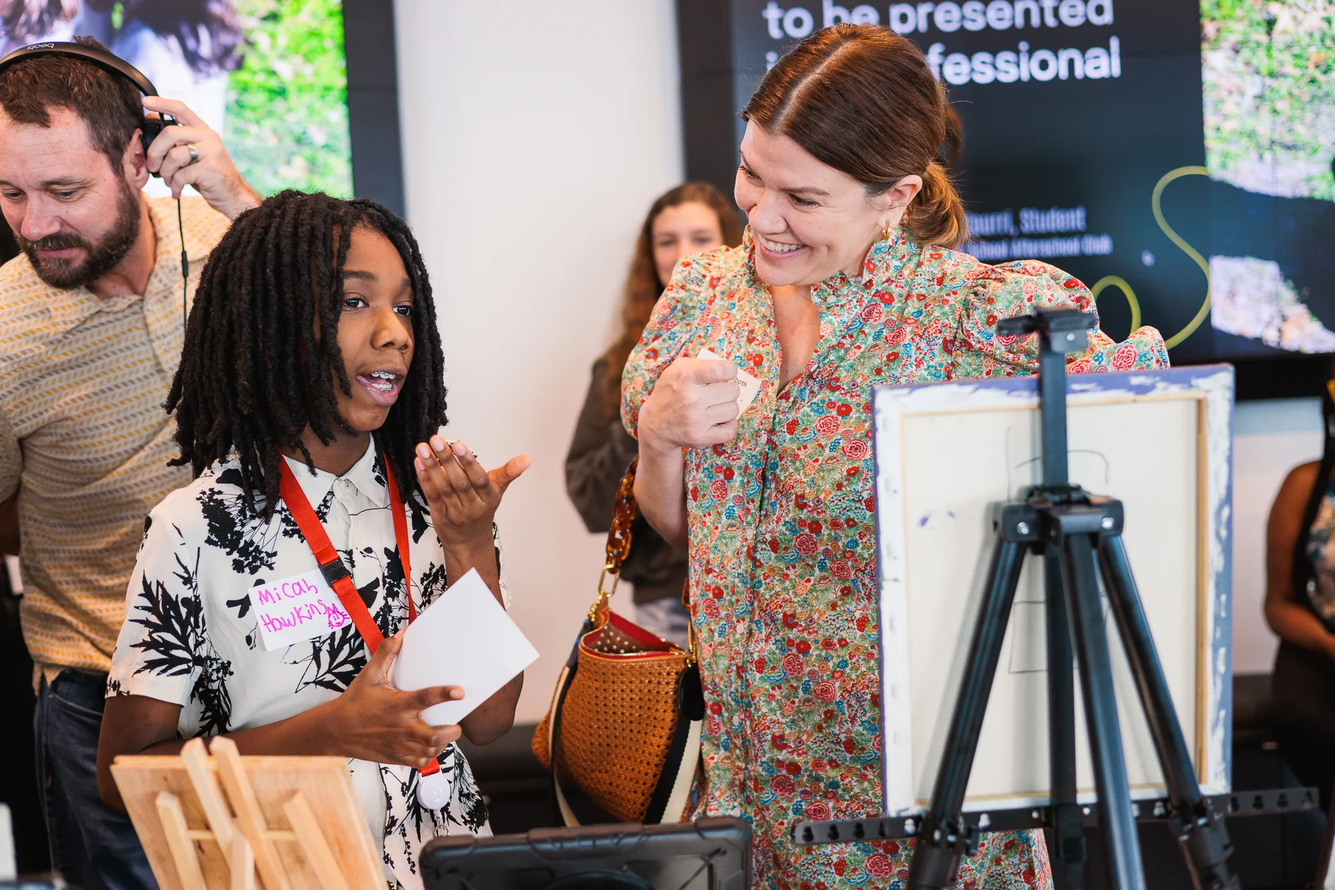
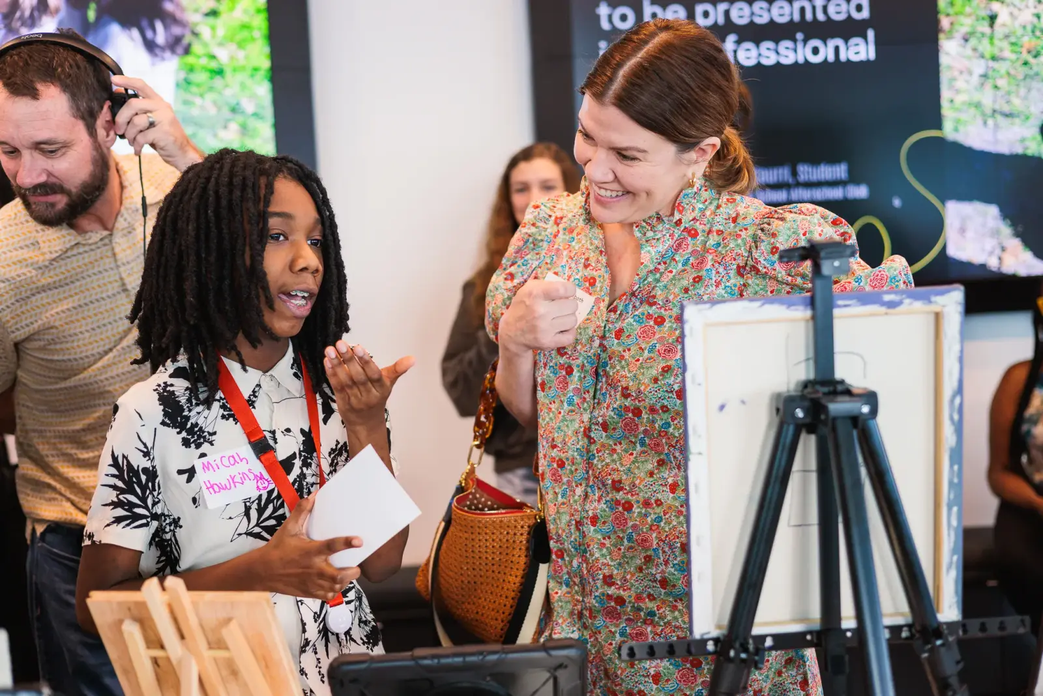
perf: optimize Lighthouse score — eliminate Framer Motion, compress images, defer GA4
- Hero image (_a4a2514.webp): 628KB → 268KB (resized 1600px, quality 75)
- _a4a1906.webp: 410KB → 174KB (resized 1600px, quality 75)
- img_5137_1.webp: 225KB → 45KB (resized 1600px, quality 75)
- Replace Framer Motion with CSS animations + IntersectionObserver in:
  - AnimatedSection (CSS transitions, no JS animation library)
  - HeroSection (CSS animate-fade-in-up keyframes)
  - EcosystemCircle (CSS transitions for mobile stacked view)
- Framer Motion no longer imported anywhere — full tree-shake elimination
- Add fetchPriority='high' to hero background image
- Change GA4 scripts from afterInteractive to lazyOnload
- Add fadeInUp keyframe animation to Tailwind config

diff --git a/src/components/EcosystemCircle.tsx b/src/components/EcosystemCircle.tsx
@@ -1,6 +1,6 @@
 'use client'
 
-import { motion } from 'framer-motion'
+import { useEffect, useRef, useState } from 'react'
 import { FontAwesomeIcon } from '@fortawesome/react-fontawesome'
 import { faBookOpen, faWrench, faDoorOpen, faCrown } from '@fortawesome/free-solid-svg-icons'
 import type { IconDefinition } from '@fortawesome/fontawesome-svg-core'
@@ -16,12 +16,24 @@ export default function EcosystemCircle() {
   const circleSize = 640
   const radius = circleSize / 2 - 70
   const center = circleSize / 2
+  const mobileRef = useRef<HTMLDivElement>(null)
+  const [mobileVisible, setMobileVisible] = useState(false)
+
+  useEffect(() => {
+    const el = mobileRef.current
+    if (!el) return
+    const observer = new IntersectionObserver(
+      ([entry]) => { if (entry.isIntersecting) { setMobileVisible(true); observer.unobserve(el) } },
+      { rootMargin: '-50px' }
+    )
+    observer.observe(el)
+    return () => observer.disconnect()
+  }, [])
 
   return (
     <div className="flex flex-col items-center">
       {/* Desktop: circular layout */}
       <div className="hidden md:block relative" style={{ width: circleSize, height: circleSize }}>
-        {/* Outer ring arcs */}
         <svg className="absolute inset-0" viewBox={`0 0 ${circleSize} ${circleSize}`} fill="none">
           {stages.map((stage, i) => {
             const gap = 4 * (Math.PI / 180)
@@ -41,14 +53,11 @@ export default function EcosystemCircle() {
               />
             )
           })}
-
-          {/* Directional arrows between stages */}
           {stages.map((_, i) => {
             const midAngle = ((i + 1) * 90 - 90) * (Math.PI / 180)
             const arrowR = radius + 24
             const ax = center + arrowR * Math.cos(midAngle)
             const ay = center + arrowR * Math.sin(midAngle)
-
             const tangentAngle = midAngle + Math.PI / 2
             const size = 10
             const tipX = ax + size * Math.cos(tangentAngle)
@@ -57,7 +66,6 @@ export default function EcosystemCircle() {
             const baseL_Y = ay - size * 0.6 * Math.sin(tangentAngle) + size * 0.5 * Math.sin(tangentAngle + Math.PI / 2)
             const baseR_X = ax - size * 0.6 * Math.cos(tangentAngle) - size * 0.5 * Math.cos(tangentAngle + Math.PI / 2)
             const baseR_Y = ay - size * 0.6 * Math.sin(tangentAngle) - size * 0.5 * Math.sin(tangentAngle + Math.PI / 2)
-
             return (
               <polygon
                 key={`arrow-${i}`}
@@ -68,8 +76,6 @@ export default function EcosystemCircle() {
             )
           })}
         </svg>
-
-        {/* Stage icons + labels positioned in quadrants */}
         {stages.map((stage, i) => {
           const angle = (i * 90) * (Math.PI / 180)
           const labelR = radius * 0.55
@@ -79,11 +85,7 @@ export default function EcosystemCircle() {
             <div
               key={stage.label}
               className="absolute text-center z-10"
-              style={{
-                left: x - 65,
-                top: y - 40,
-                width: 130,
-              }}
+              style={{ left: x - 65, top: y - 40, width: 130 }}
             >
               <div
                 className="w-20 h-20 rounded-full mx-auto flex items-center justify-center text-white mb-2 shadow-md"
@@ -95,8 +97,6 @@ export default function EcosystemCircle() {
             </div>
           )
         })}
-
-        {/* Center text */}
         <div className="absolute inset-0 flex items-center justify-center pointer-events-none">
           <div className="text-center">
             <span className="text-sm font-semibold text-gray-400 uppercase tracking-widest">E4</span>
@@ -106,13 +106,15 @@ export default function EcosystemCircle() {
       </div>
 
       {/* Mobile: stacked layout */}
-      <div className="md:hidden space-y-3 w-full max-w-md">
+      <div ref={mobileRef} className="md:hidden space-y-3 w-full max-w-md">
         {stages.map((stage, i) => (
-          <motion.div
+          <div
             key={stage.label}
-            initial={{ opacity: 0, x: -20 }}
-            animate={{ opacity: 1, x: 0 }}
-            transition={{ delay: i * 0.1 }}
+            style={{
+              opacity: mobileVisible ? 1 : 0,
+              transform: mobileVisible ? 'none' : 'translateX(-20px)',
+              transition: `opacity 0.4s ease-out ${i * 0.1}s, transform 0.4s ease-out ${i * 0.1}s`,
+            }}
           >
             <div className="flex items-center gap-4 p-4 rounded-xl border border-gray-200">
               <div
@@ -129,7 +131,7 @@ export default function EcosystemCircle() {
                 {i < stages.length - 1 ? '>' : ''}
               </span>
             </div>
-          </motion.div>
+          </div>
         ))}
       </div>
     </div>

diff --git a/src/components/HeroSection.tsx b/src/components/HeroSection.tsx
@@ -1,6 +1,5 @@
 'use client'
 
-import { motion } from 'framer-motion'
 import Link from 'next/link'
 import Image from 'next/image'
 import { ReactNode } from 'react'
@@ -38,6 +37,7 @@ export default function HeroSection({
             className="object-cover"
             sizes="100vw"
             priority
+            fetchPriority="high"
           />
           <div className="absolute inset-0 bg-gradient-to-br from-black/70 via-black/50 to-black/70" />
         </div>
@@ -51,28 +51,21 @@ export default function HeroSection({
       </div>
 
       <div className="relative z-10 max-w-7xl mx-auto px-6 md:px-12 lg:px-20 py-32">
-        <motion.h1
-          initial={{ opacity: 0, y: 30 }}
-          animate={{ opacity: 1, y: 0 }}
-          transition={{ duration: 0.7 }}
-          className="text-4xl md:text-5xl lg:text-6xl font-display font-bold text-white leading-tight max-w-4xl"
+        <h1
+          className="text-4xl md:text-5xl lg:text-6xl font-display font-bold text-white leading-tight max-w-4xl animate-fade-in-up"
         >
           {headline}
-        </motion.h1>
-        <motion.p
-          initial={{ opacity: 0, y: 20 }}
-          animate={{ opacity: 1, y: 0 }}
-          transition={{ duration: 0.7, delay: 0.2 }}
-          className="mt-6 text-lg md:text-xl text-white/90 max-w-3xl leading-relaxed"
+        </h1>
+        <p
+          className="mt-6 text-lg md:text-xl text-white/90 max-w-3xl leading-relaxed animate-fade-in-up"
+          style={{ animationDelay: '0.2s' }}
         >
           {subheadline}
-        </motion.p>
+        </p>
         {(primaryCTA || secondaryCTA) && (
-          <motion.div
-            initial={{ opacity: 0, y: 20 }}
-            animate={{ opacity: 1, y: 0 }}
-            transition={{ duration: 0.7, delay: 0.4 }}
-            className="mt-10 flex flex-wrap gap-4"
+          <div
+            className="mt-10 flex flex-wrap gap-4 animate-fade-in-up"
+            style={{ animationDelay: '0.4s' }}
           >
             {primaryCTA && (
               <Link href={primaryCTA.href} className="btn-gold">
@@ -84,16 +77,15 @@ export default function HeroSection({
                 {secondaryCTA.text}
               </Link>
             )}
-          </motion.div>
+          </div>
         )}
         {children && (
-          <motion.div
-            initial={{ opacity: 0, y: 20 }}
-            animate={{ opacity: 1, y: 0 }}
-            transition={{ duration: 0.7, delay: 0.4 }}
+          <div
+            className="animate-fade-in-up"
+            style={{ animationDelay: '0.4s' }}
           >
             {children}
-          </motion.div>
+          </div>
         )}
       </div>
     </section>

diff --git a/src/components/AnimatedSection.tsx b/src/components/AnimatedSection.tsx
@@ -1,7 +1,6 @@
 'use client'
 
-import { motion } from 'framer-motion'
-import { ReactNode } from 'react'
+import { useEffect, useRef, useState, ReactNode } from 'react'
 
 interface Props {
   children: ReactNode
@@ -11,29 +10,44 @@ interface Props {
 }
 
 export default function AnimatedSection({ children, className = '', delay = 0, direction = 'up' }: Props) {
-  const variants = {
-    hidden: {
-      opacity: 0,
-      y: direction === 'up' ? 40 : 0,
-      x: direction === 'left' ? -40 : direction === 'right' ? 40 : 0,
-    },
-    visible: {
-      opacity: 1,
-      y: 0,
-      x: 0,
-      transition: { duration: 0.6, delay, ease: 'easeOut' },
-    },
-  }
+  const ref = useRef<HTMLDivElement>(null)
+  const [isVisible, setIsVisible] = useState(false)
+
+  useEffect(() => {
+    const el = ref.current
+    if (!el) return
+
+    const observer = new IntersectionObserver(
+      ([entry]) => {
+        if (entry.isIntersecting) {
+          setIsVisible(true)
+          observer.unobserve(el)
+        }
+      },
+      { rootMargin: '-50px' }
+    )
+
+    observer.observe(el)
+    return () => observer.disconnect()
+  }, [])
+
+  const initialTransform =
+    direction === 'up' ? 'translateY(40px)' :
+    direction === 'left' ? 'translateX(-40px)' :
+    direction === 'right' ? 'translateX(40px)' :
+    'none'
 
   return (
-    <motion.div
-      initial="hidden"
-      whileInView="visible"
-      viewport={{ once: true, margin: '-50px' }}
-      variants={variants}
+    <div
+      ref={ref}
       className={className}
+      style={{
+        opacity: isVisible ? 1 : 0,
+        transform: isVisible ? 'none' : initialTransform,
+        transition: `opacity 0.6s ease-out ${delay}s, transform 0.6s ease-out ${delay}s`,
+      }}
     >
       {children}
-    </motion.div>
+    </div>
   )
 }

diff --git a/tailwind.config.ts b/tailwind.config.ts
@@ -25,6 +25,7 @@ const config: Config = {
         'fade-in': 'fadeIn 0.6s ease-out forwards',
         'slide-up': 'slideUp 0.6s ease-out forwards',
         'float': 'float 6s ease-in-out infinite',
+        'fade-in-up': 'fadeInUp 0.7s ease-out both',
         'gradient': 'gradient 8s ease infinite',
       },
       keyframes: {
@@ -39,6 +40,10 @@ const config: Config = {
         float: {
           '0%, 100%': { transform: 'translateY(0)' },
           '50%': { transform: 'translateY(-20px)' },
+        },
+        fadeInUp: {
+          '0%': { opacity: '0', transform: 'translateY(30px)' },
+          '100%': { opacity: '1', transform: 'translateY(0)' },
         },
         gradient: {
           '0%, 100%': { backgroundPosition: '0% 50%' },

diff --git a/src/app/layout.tsx b/src/app/layout.tsx
@@ -48,9 +48,9 @@ export default function RootLayout({ children }: { children: React.ReactNode }) 
       <head>
         <Script
           src="https://www.googletagmanager.com/gtag/js?id=G-887T09CZYB"
-          strategy="afterInteractive"
+          strategy="lazyOnload"
         />
-        <Script id="ga4-init" strategy="afterInteractive">
+        <Script id="ga4-init" strategy="lazyOnload">
           {`
             window.dataLayer = window.dataLayer || [];
             function gtag(){dataLayer.push(arguments);}
